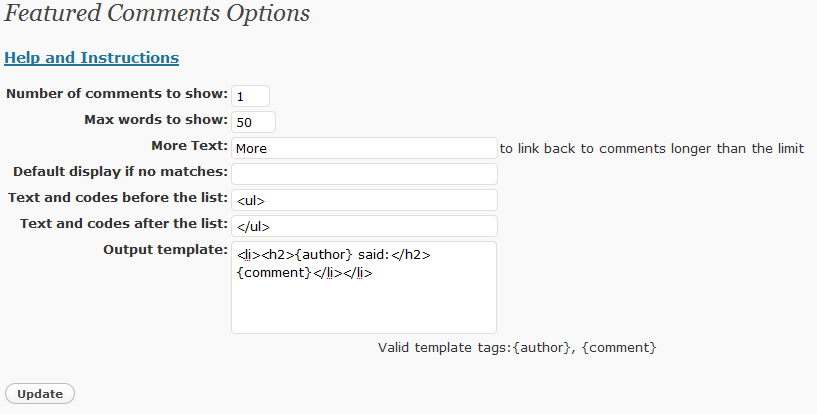
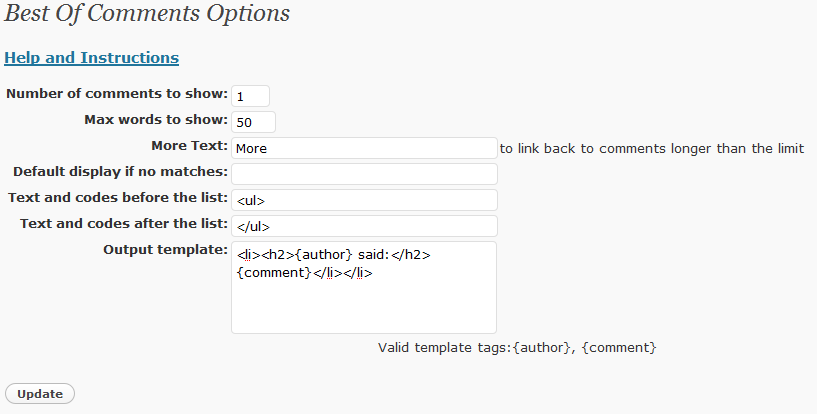
git-svn-id: https://plugins.svn.wordpress.org/best-of-comments/trunk@179080 b8457f37-d9ea-0310-8a92-e5e31aec5664

Changed region(s): [[0.0, 0.0, 0.3978, 0.058]]

diff --git a/best-of-comments.php b/best-of-comments.php
@@ -10,8 +10,8 @@ Version: 0.9.1
 /*
 Usage:  Call best_of_comments(); in order to return the featured comments.  You have the option of setting a limit on the amount of comments returned or a return limiter on the admin page. The admin page also allows you to specify an output template.
 
-Usage:  Call best_of_comment_get_list(); in order to return a list of links to the featured comments.
-You have the option of setting a limit on the number of comments returned by calling featured_comment_get_list(5); which will return a list of 5 random featured comments.
+Usage:  Call best_of_comments_get_list(); in order to return a list of links to the featured comments.
+You have the option of setting a limit on the number of comments returned by calling best_of_comments_get_list(5); which will return a list of 5 random featured comments.
 */
 
 load_plugin_textdomain('best_of_comments', 'wp-content/plugins/best-of-comments'); 
